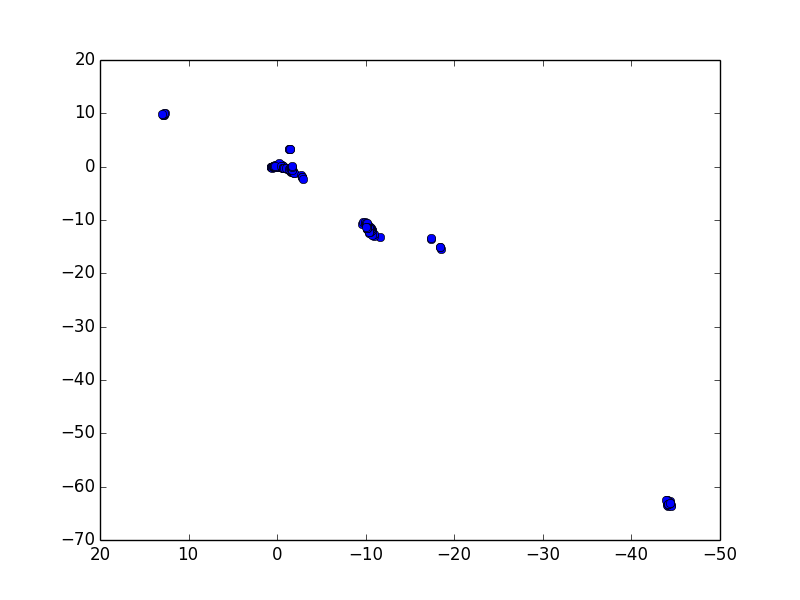
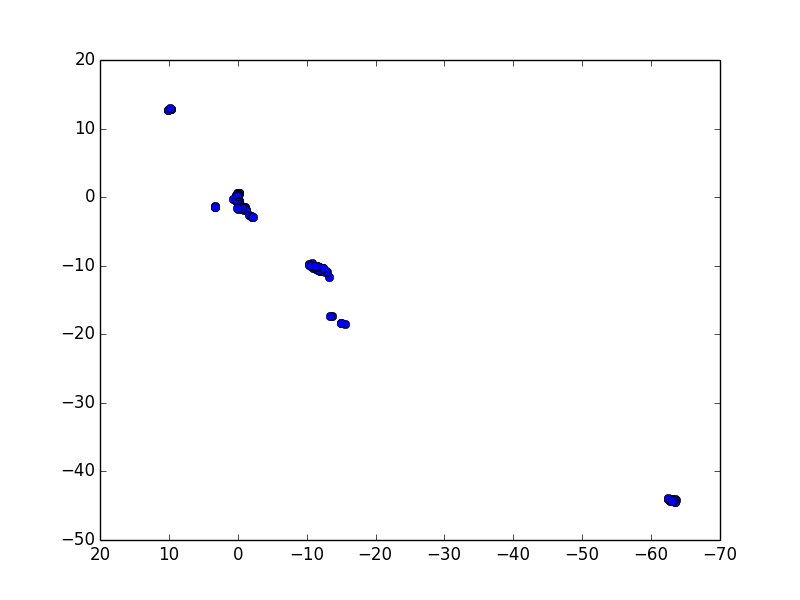
Added a script to draw the complete fitting plot for NGC 1194. Still working on it.

diff --git a/01_FittingExercise/plot.py b/01_FittingExercise/plot.py
@@ -1,0 +1,51 @@
+#This plot will draw the p-v diagram of NGC 1194 and the fitted curve.
+#The fitted value of the X is 9.17784456e+12
+
+import matplotlib.pyplot as plt
+import numpy as np
+
+data = open('data.txt', 'r')
+rlist = []
+vlist = []
+x0 = 514.182
+y0 = 509.230
+vSys = 4076
+
+for line in data:
+	v = float(line.split()[1])
+	x = float(line.split()[3])
+	y = float(line.split()[5])
+	if v > vSys: #if the spot is redshifted, it will appear on the left of origin, but with a positive impact parameter
+		r = ((x - x0) ** 2 + (y - y0) **2) ** 0.5
+	else:
+		r = -((x - x0) ** 2 + (y - y0) **2) ** 0.5
+	rlist.append(r)
+	vlist.append(np.absolute(v))
+
+#Y = 9.17784456 * 10**12 * (4.84813681 * 10**(-9)) * 10**(-6) # modulated constant based on current the units of v(km/s) and theta (mas), converted from m/s and rad, respectively
+#Y = 0.04449544604779426
+Y = 
+
+def upperCurve(x):
+	return ( Y / x)**0.5 + vSys
+
+def lowerCurve(x):
+	return -( Y / (-x))**0.5 + vSys
+
+plt.plot(rlist, vlist, 'bo')
+
+
+#x1 = np.arange(1, 30, 0.1)
+#y1 = upperCurve(x1)
+
+#x2 = np.arange(-1, -60, -0.1)
+#y2 = lowerCurve(x2)
+
+#plt.plot(x1, y1, 'r-')
+#plt.plot(x2, y2, 'b-')
+
+#plt.plot(rlist, upperCurve(rlist))
+
+plt.gca().invert_xaxis()
+plt.show()
+

diff --git a/02_NGC4549/posvel_wOffsetInput.py b/02_NGC4549/posvel_wOffsetInput.py
@@ -3,11 +3,11 @@ import matplotlib.pyplot as plt
 
 data = open("data2.txt", "r")
 
-vSys = 560
+vSys = 563
 rlist = []
 vlist = []
-x0 = -11.4835 #Choose the BH center to be at 550
-y0 = -10.2454
+x0 = -12.3095 #Choose the BH center to be at 550
+y0 = -10.5324
 
 for line in data:
 	temp = line.split(",")
@@ -25,5 +25,5 @@ plt.plot(rlist, vlist, r'o')
 plt.gca().invert_xaxis()
 #plt.axis([40, -70, 500, 800])
 #plt.show()
-plt.savefig("posvel_vSys=560.png")
+plt.savefig("posvel_vSys=563.png")
 #print (rlist, vlist, drlist)

diff --git a/01_FittingExercise/testPlot.py b/01_FittingExercise/testPlot.py
@@ -1,0 +1,23 @@
+import matplotlib.pyplot as plt
+import numpy as np
+
+Y = 0.04449544604779426
+vSys = 4076
+
+def upperCurve(x):
+	return ( Y / x)**0.5 + vSys
+
+def lowerCurve(x):
+	return -( Y / (-x))**0.5 + vSys
+
+x1 = np.arange(1, 30, 0.1)
+y1 = upperCurve(x1)
+
+x2 = np.arange(-1, -60, -0.1)
+y2 = lowerCurve(x2)
+
+plt.plot(x1, y1, 'r-')
+plt.plot(x2, y2, 'b-')
+
+plt.gca().invert_xaxis()
+plt.show()

diff --git a/02_NGC4549/GetBHMass.py b/02_NGC4549/GetBHMass.py
@@ -11,7 +11,7 @@ data = open("data2.txt", "r")
 #Here enter the systemic velocity and the reference position points
 x0 = 0
 y0 = 0
-vSys = 560
+vSys = 651
 
 #Read each line of the file, store each line into a temp list, access the 3rd and fifth element, calculate r, together with v store into another list
 

diff --git a/02_NGC4549/plot.py b/02_NGC4549/plot.py
@@ -11,7 +11,7 @@ for line in data:
 	ewlist.append(eastWestOffset)
 	nslist.append(northSouthOffset)
 
-plt.plot(nslist, ewlist, 'o')
+plt.plot(ewlist, nslist, 'o')
 plt.gca().invert_xaxis()
 #plt.show()
 plt.savefig("position.png")
